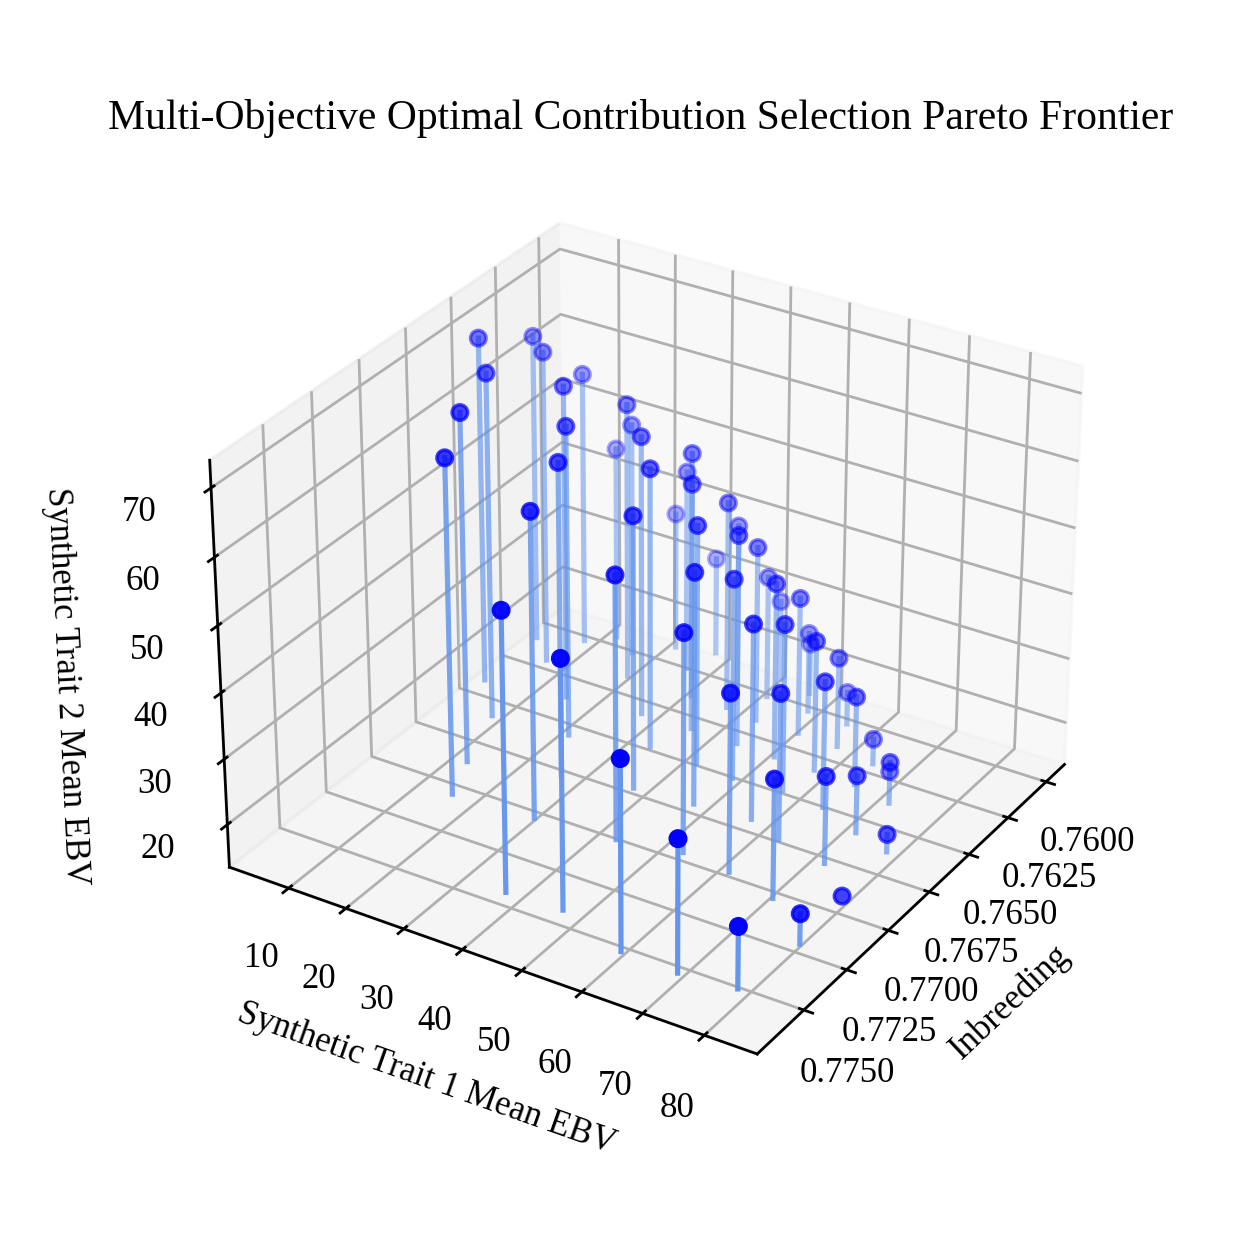
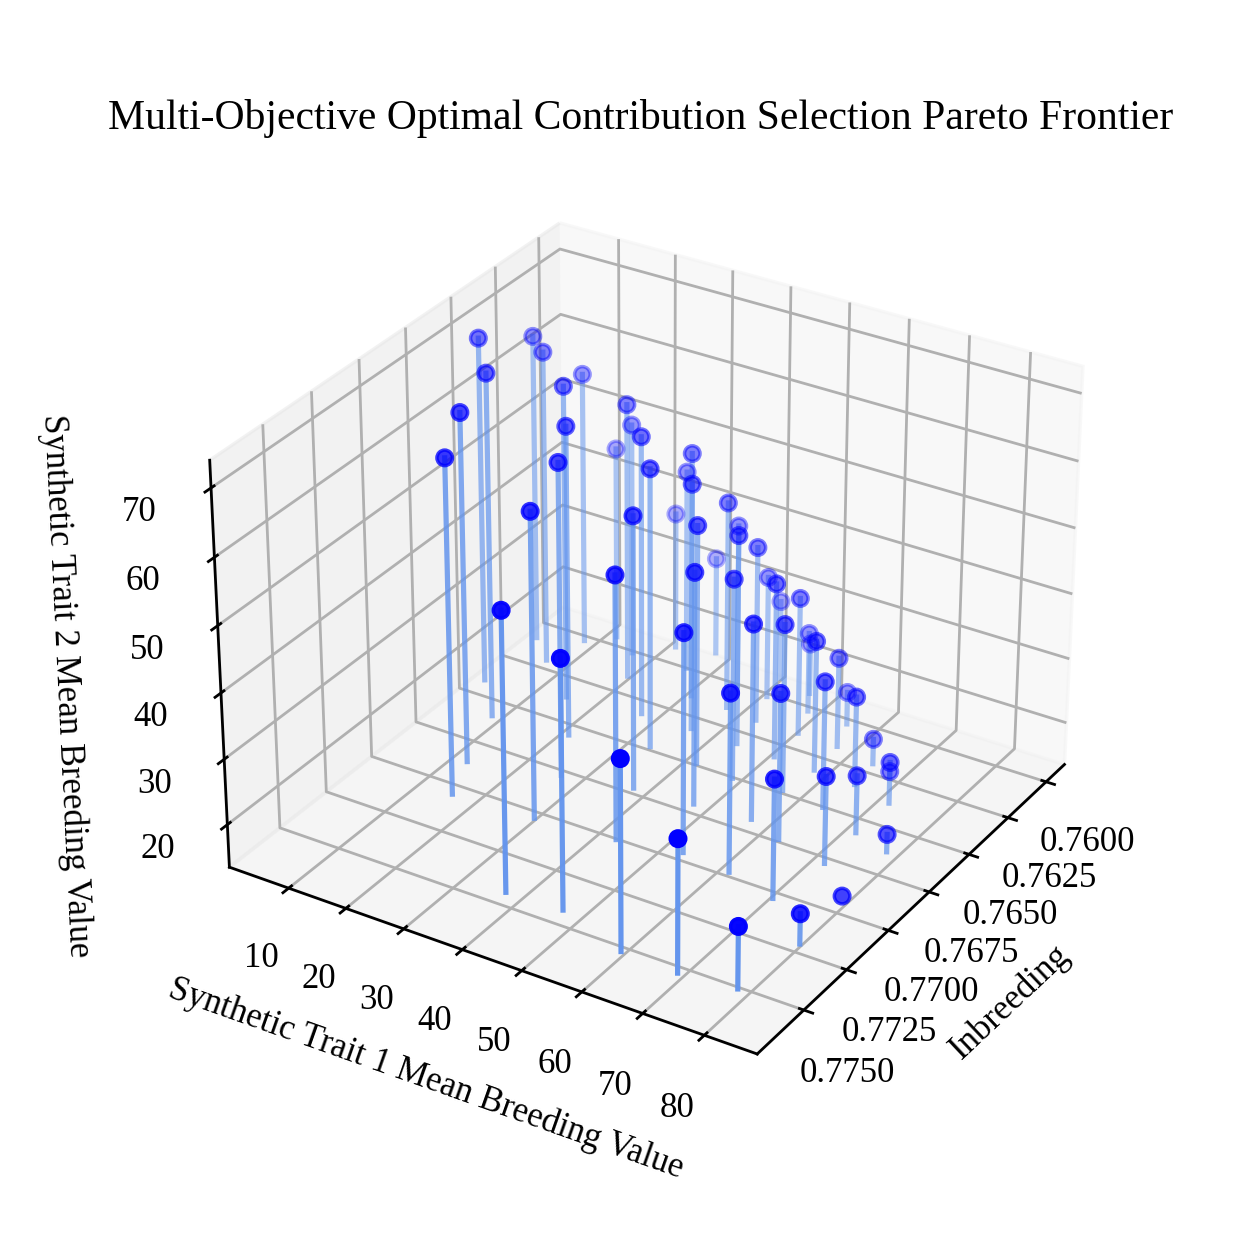
improve graph labels

Changed region(s): [[0.1248, 0.78, 0.5616, 0.936], [0.0312, 0.312, 0.0936, 0.7488]]

diff --git a/examples/pareto_frontier_visualization/optimal_contribution_selection/triobjective_OCS_pareto_frontier.py b/examples/pareto_frontier_visualization/optimal_contribution_selection/triobjective_OCS_pareto_frontier.py
@@ -127,8 +127,8 @@ basename = "triobjective_OCS_pareto_frontier"
 
 # get axis data
 x =  selsoln.soln_obj[:,0] # 2 * mean kinship (additive relationship/inbreeding)
-y = -selsoln.soln_obj[:,1] # negate to get EBV
-z = -selsoln.soln_obj[:,2] # negate to get EBV
+y = -selsoln.soln_obj[:,1] # negate to get Breeding Value
+z = -selsoln.soln_obj[:,2] # negate to get Breeding Value
 z2 = numpy.ones(shape = x.shape) * min(z)
 
 # create static figure
@@ -141,8 +141,8 @@ for i,j,k,h in zip(x,y,z,z2):
 
 ax.set_title("Multi-Objective Optimal Contribution Selection Pareto Frontier")
 ax.set_xlabel("Inbreeding")
-ax.set_ylabel("Synthetic Trait 1 Mean EBV")
-ax.set_zlabel("Synthetic Trait 2 Mean EBV")
+ax.set_ylabel("Synthetic Trait 1 Mean Breeding Value")
+ax.set_zlabel("Synthetic Trait 2 Mean Breeding Value")
 ax.view_init(elev = 30., azim = 32)
 pyplot.savefig(basename + ".png", dpi = 250)
 pyplot.close(fig)
@@ -166,8 +166,8 @@ for i in range(360):
     ax.scatter3D(x, y, z)
     ax.set_title("Multi-Objective Optimal Contribution Selection Pareto Frontier")
     ax.set_xlabel("Inbreeding")
-    ax.set_ylabel("Synthetic Trait 1 Mean EBV")
-    ax.set_zlabel("Synthetic Trait 2 Mean EBV")
+    ax.set_ylabel("Synthetic Trait 1 Mean Breeding Value")
+    ax.set_zlabel("Synthetic Trait 2 Mean Breeding Value")
     ax.view_init(elev = 30., azim = i)
     pyplot.savefig(outdir + "/" + basename + "_" + str(i).zfill(3) + ".png", dpi = 250)
     pyplot.close(fig)

diff --git a/docsrc/source/standard_usage/examples/pareto_frontier_visualization/triobjective_OCS_pareto_frontier.rst b/docsrc/source/standard_usage/examples/pareto_frontier_visualization/triobjective_OCS_pareto_frontier.rst
@@ -158,8 +158,8 @@ After optimizing the objectives, we can use ``matplotlib`` or any other plotting
 
     # get axis data
     x =  selsoln.soln_obj[:,0] # 2 * mean kinship (additive relationship/inbreeding)
-    y = -selsoln.soln_obj[:,1] # negate to get EBV
-    z = -selsoln.soln_obj[:,2] # negate to get EBV
+    y = -selsoln.soln_obj[:,1] # negate to get Breeding Value
+    z = -selsoln.soln_obj[:,2] # negate to get Breeding Value
     z2 = numpy.ones(shape = x.shape) * min(z)
 
     # create static figure
@@ -172,8 +172,8 @@ After optimizing the objectives, we can use ``matplotlib`` or any other plotting
 
     ax.set_title("Multi-Objective Optimal Contribution Selection Pareto Frontier")
     ax.set_xlabel("Inbreeding")
-    ax.set_ylabel("Synthetic Trait 1 Mean EBV")
-    ax.set_zlabel("Synthetic Trait 2 Mean EBV")
+    ax.set_ylabel("Synthetic Trait 1 Mean Breeding Value")
+    ax.set_zlabel("Synthetic Trait 2 Mean Breeding Value")
     ax.view_init(elev = 30., azim = 32)
     pyplot.savefig(basename + ".png", dpi = 250)
     pyplot.close(fig)
@@ -204,8 +204,8 @@ Since there are three objectives, visualization of the estimated Pareto frontier
         ax.scatter3D(x, y, z)
         ax.set_title("Multi-Objective Optimal Contribution Selection Pareto Frontier")
         ax.set_xlabel("Inbreeding")
-        ax.set_ylabel("Synthetic Trait 1 Mean EBV")
-        ax.set_zlabel("Synthetic Trait 2 Mean EBV")
+        ax.set_ylabel("Synthetic Trait 1 Mean Breeding Value")
+        ax.set_zlabel("Synthetic Trait 2 Mean Breeding Value")
         ax.view_init(elev = 30., azim = i)
         pyplot.savefig(outdir + "/" + basename + "_" + str(i).zfill(3) + ".png", dpi = 250)
         pyplot.close(fig)
